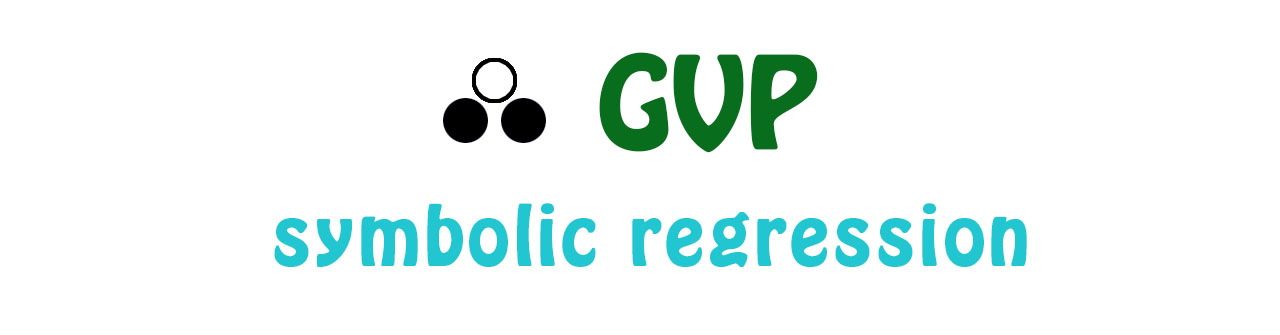
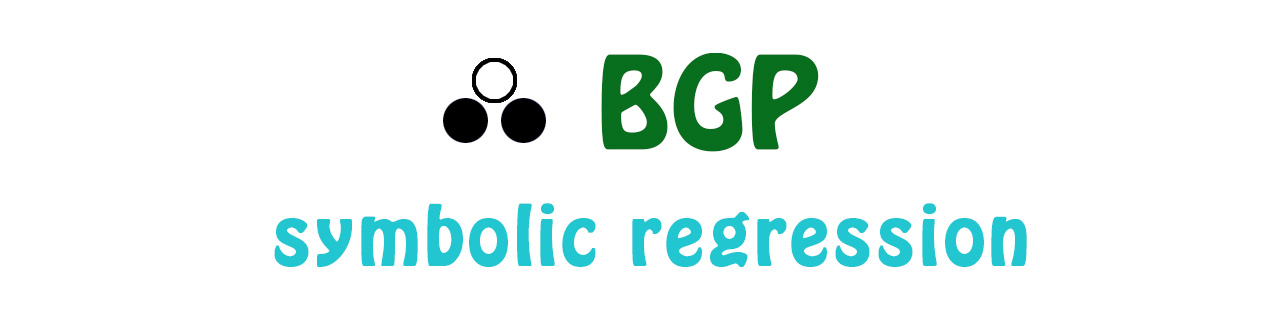
change GVP to BGP

Changed region(s): [[0.4688, 0.1493, 0.625, 0.4478]]

diff --git a/BGP/base.py b/BGP/base.py
@@ -105,7 +105,7 @@ class SymbolTerminalDetail(SymbolTerminal):
             n is number of samples, n_x is numbers of feature.
         name: str
             Represent name. Default "xi"
-        dim: BGPp.dim.Dim or None
+        dim: BGP.dim.Dim or None
             None
         prob: float or None
             None
@@ -548,7 +548,7 @@ class SymbolSet(object):
             np_func:numpy function
             dim_func:dimension function
             sym_func:NewArray function. (unpack the group,used just for shown)
-            See Also BGPp.newfunc.newfuncV
+            See Also BGP.newfunc.newfuncV
         Returns
         -------
         SymbolSet
@@ -628,7 +628,7 @@ class SymbolSet(object):
             np_func:numpy function
             dim_func:dimension function
             sym_func:NewArray function. (unpack the group,used just for shown)
-            See Also BGPp.newfunc.newfuncV
+            See Also BGP.newfunc.newfuncV
         special_prob: None or dict
             Examples: {"MAdd":0.5,"Self":0.5}
 

diff --git a/BGP/skflow.py b/BGP/skflow.py
@@ -9,7 +9,7 @@ from sklearn.metrics import check_scoring
 
 class SymbolLearning(BaseEstimator, MultiOutputMixin, TransformerMixin):
     """One simplify API for flow.\n
-    The detailed functions should turn to the loop of BGPp.flow.\n
+    The detailed functions should turn to the loop of BGP.flow.\n
     The SymbolLearning is time costing and are not suit for GridSearchCV, the cross_validate are builtin """
 
     def __str__(self):
@@ -22,7 +22,7 @@ class SymbolLearning(BaseEstimator, MultiOutputMixin, TransformerMixin):
         pset:SymbolSet
             the feature x and traget y and others should have been added.
         loop: str,None
-            BGPp.flow.BaseLoop
+            BGP.flow.BaseLoop
             [“BaseLoop”,”MutilMutateLoop“,“OnePointMutateLoop”, ”DimForceLoop“...]
         pop:int
             number of popolation

diff --git a/BGP/probability/preference.py b/BGP/probability/preference.py
@@ -358,13 +358,13 @@ class PreMap(numeric.ndarray):
 
 # if __name__ == "__main__":
 #    # import copy
-#    # from BGPp.gp import mutNodeReplacementVerbose, mutDifferentReplacementVerbose
+#    # from BGP.gp import mutNodeReplacementVerbose, mutDifferentReplacementVerbose
 #    # from numpy import random
 #    # from sklearn.datasets import load_boston
 #    #
-#    # from BGPp.base import SymbolSet
-#    # from BGPp.base import SymbolTree
-#    # from BGPp.dim import dless, Dim
+#    # from BGP.base import SymbolSet
+#    # from BGP.base import SymbolTree
+#    # from BGP.dim import dless, Dim
 #    #
 #    # random.seed(3)
 #    # # data

diff --git a/setup.py b/setup.py
@@ -16,7 +16,7 @@ with open(path.join(this_directory, 'README.md'), encoding='utf-8') as f:
 
 setup(
 
-    name='BGPp',
+    name='BGP',
     version='0.0.09',
     keywords=['symbolic regression'],
     description='This is for symbolic regression.'

diff --git a/Instances/Instance2_efficient/height_1.py b/Instances/Instance2_efficient/height_1.py
@@ -13,7 +13,7 @@ if __name__ == "__main__":
 
     height = 2
     hBGP = 1
-    # BGPp
+    # BGP
     group = 2
     pset = SymbolSet()
     pset.add_features(x, y, x_group=group, )

diff --git a/deprecated/learning/test_che.py b/deprecated/learning/test_che.py
@@ -1,4 +1,4 @@
-# from BGPp.scores import CheckCoef
+# from BGP.scores import CheckCoef
 # a = time.time()
 # ass = CheckCoef(["a","b","c"],{"d":2,"e":3,"f":5})
 # e=ass.ind
